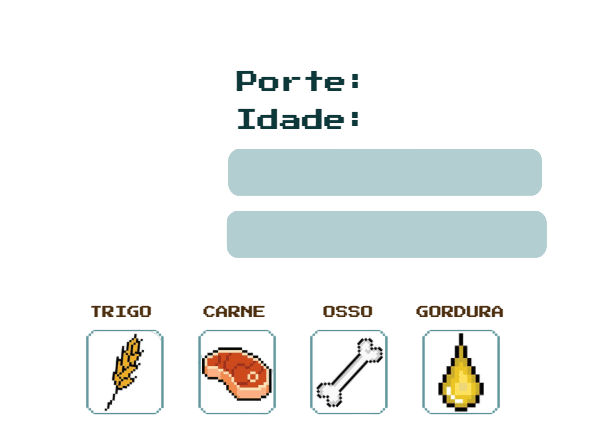
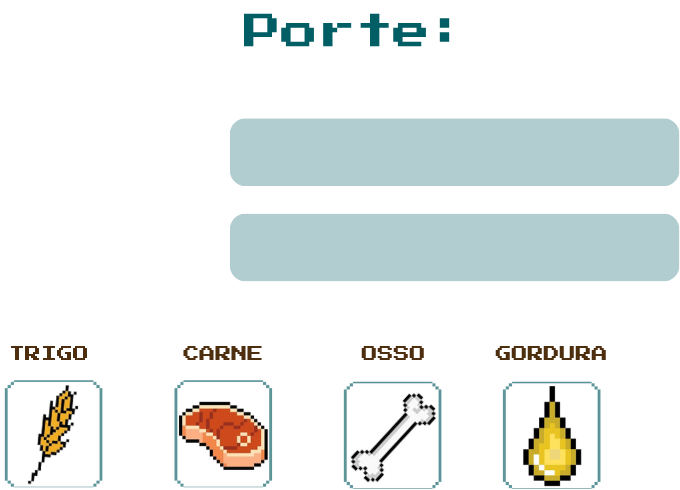
fix: cenaEstanteRacao

diff --git a/public/src/componentes/controleRacoes/dadosRacoes.js b/public/src/componentes/controleRacoes/dadosRacoes.js
@@ -24,13 +24,12 @@ export const racaoStandardPequeno = {
   id: 1,
   tipo: "Standard",
   porte: "Pequeno",
-  idade: "Até 1 ano",
   caracteristicas: ["Nutrição Essencial", "Baixo Custo"],
   nutrientes: { trigo: "42%", carne: "33%", osso: "10%", gordura: "15%" },
   descricao: "Uma opção acessível e equilibrada para a alimentação diária de cães de pequeno porte. Oferece os nutrientes essenciais para manter energia e saúde geral, com boa combinação de proteínas, carboidratos e vitaminas. Ideal para quem busca uma alimentação confiável e de baixo custo para o dia a dia.",
   exemplos: ["N&D White", "GranPlus Menu", "Fórmula Natural Life"],
   ingredientes: ["Proteínas de origem animal", "Cereais selecionados", "Vitaminas e minerais essenciais", "Fibras naturais"],
-  valor: 15,
+  valor: 20,
   sprite: "racaoStandardPequeno"
 };
 
@@ -40,13 +39,12 @@ export const racaoStandardMedio = {
   id: 2,
   tipo: "Standard",
   porte: "Médio",
-  idade: "De 1 a 2 anos",
   caracteristicas: ["Nutrição Essencial", "Baixo Custo"],
   nutrientes: { trigo: "40%", carne: "35%", osso: "10%", gordura: "15%" },
   descricao: "Uma opção acessível e equilibrada para cães de porte médio, oferecendo nutrição essencial para o dia a dia. Combinando proteínas, vitaminas e minerais, ajuda a manter a vitalidade e saúde geral. Indicada para quem procura uma alimentação funcional com ótimo custo inicial.",
   exemplos: ["GranPlus Choice", "Origens Class"],
   ingredientes: ["Proteínas de origem animal", "Cereais selecionados", "Vitaminas e minerais", "Fibras naturais"],
-  valor: 25,
+  valor: 20,
   sprite: "racaoStandardMedio"
 };
 
@@ -56,7 +54,6 @@ export const racaoStandardGrande = {
   id: 3,
   tipo: "Standard",
   porte: "Grande",
-  idade: "Acima de 2 anos",
   caracteristicas: ["Nutrição Essencial", "Baixo Custo"],
   nutrientes: { trigo: "38%", carne: "37%", osso: "10%", gordura: "15%" },
   descricao: "Indicada para cães de grande porte, esta ração oferece nutrição básica e equilibrada para manutenção da saúde. Com proteínas, vitaminas e minerais essenciais, garante energia para as atividades diárias. Uma escolha econômica e confiável para alimentação regular.",
@@ -72,13 +69,12 @@ export const racaoPremiumPequeno = {
   id: 1,
   tipo: "Premium",
   porte: "Pequeno",
-  idade: "Até 1 ano",
   caracteristicas: ["Melhor Digestão", "Equilíbrio Nutricional"],
   nutrientes: { trigo: "30%", carne: "45%", osso: "10%", gordura: "15%" },
   descricao: "Com ingredientes selecionados e melhor digestibilidade, esta ração oferece um equilíbrio entre qualidade nutricional e custo. A maior presença de proteínas auxilia na energia diária e na manutenção da saúde. Fibras e prebióticos contribuem para digestão mais eficiente, proporcionando nutrição mais completa.",
   exemplos: ["GranPlus Gourmet", "Fórmula Natural Life"],
   ingredientes: ["Proteínas selecionadas", "Arroz e cereais de fácil digestão", "Vitaminas e minerais", "Fibras e prebióticos"],
-  valor: 20,
+  valor: 25,
   sprite: "racaoPremiumPequeno"
 };
 
@@ -88,13 +84,12 @@ export const racaoPremiumMedio = {
   id: 2,
   tipo: "Premium",
   porte: "Médio",
-  idade: "De 1 a 2 anos",
   caracteristicas: ["Melhor Digestão", "Equilíbrio Nutricional"],
   nutrientes: { trigo: "28%", carne: "47%", osso: "10%", gordura: "15%" },
   descricao: "Desenvolvida para oferecer nutrição equilibrada, esta ração combina ingredientes de maior qualidade com boa digestibilidade. A maior concentração de proteínas ajuda na manutenção muscular, enquanto vitaminas e minerais reforçam a saúde geral. Uma opção balanceada entre qualidade e preço.",
   exemplos: ["Origens Class", "GranPlus Choice"],
   ingredientes: ["Proteínas nobres", "Vitaminas e minerais", "Ômega 3 e 6", "Fibras naturais"],
-  valor: 20,
+  valor: 25,
   sprite: "racaoPremiumMedio"
 };
 
@@ -104,13 +99,12 @@ export const racaoPremiumGrande = {
   id: 3,
   tipo: "Premium",
   porte: "Grande",
-  idade: "Acima de 2 anos",
   caracteristicas: ["Melhor Digestão", "Equilíbrio Nutricional"],
   nutrientes: { trigo: "26%", carne: "49%", osso: "10%", gordura: "15%" },
   descricao: "Indicada para cães de grande porte, esta ração premium oferece melhor digestibilidade e nutrição mais eficiente. Com proteínas de qualidade e nutrientes balanceados, auxilia na manutenção da massa muscular e energia diária. Uma escolha com ótimo equilíbrio entre qualidade e custo.",
   exemplos: ["GranPlus Senior", "Fórmula Natural Life"],
   ingredientes: ["Proteínas selecionadas", "Vitaminas e minerais", "Ômega 3 e 6", "Fibras naturais"],
-  valor: 20,
+  valor: 25,
   sprite: "racaoPremiumGrande"
 };
 
@@ -120,13 +114,12 @@ export const racaoSuperPremiumPequeno = {
   id: 1,
   tipo: "Super Premium",
   porte: "Pequeno",
-  idade: "Até 1 ano",
   caracteristicas: ["Alta Digestibilidade", "Custo-Benefício"],
   nutrientes: { trigo: "20%", carne: "55%", osso: "8%", gordura: "17%" },
   descricao: "Formulada com ingredientes de alta qualidade e maior digestibilidade, esta ração proporciona melhor aproveitamento dos nutrientes. A elevada concentração de proteínas contribui para energia e saúde geral. Apesar do investimento maior, o melhor rendimento nutricional oferece excelente custo-benefício a longo prazo.",
   exemplos: ["Premier Nutrição Clínica", "Golden Senior"],
   ingredientes: ["Proteínas de alta qualidade", "Vitaminas e minerais", "Ômega 3 e 6", "Prebióticos"],
-  valor: 20,
+  valor: 30,
   sprite: "racaoSuperPremiumPequeno"
 };
 
@@ -136,13 +129,12 @@ export const racaoSuperPremiumMedio = {
   id: 2,
   tipo: "Super Premium",
   porte: "Médio",
-  idade: "De 1 a 2 anos",
   caracteristicas: ["Alta Digestibilidade", "Custo-Benefício"],
   nutrientes: { trigo: "18%", carne: "57%", osso: "8%", gordura: "17%" },
   descricao: "Desenvolvida com ingredientes selecionados, esta ração oferece nutrição avançada e melhor absorção dos nutrientes. A alta concentração de proteínas favorece vitalidade e manutenção muscular. O melhor rendimento alimentar proporciona excelente custo-benefício ao longo do tempo.",
   exemplos: ["Premier Formula", "Pedigree"],
   ingredientes: ["Proteínas de alta qualidade", "Vitaminas e minerais", "Antioxidantes naturais", "Prebióticos"],
-  valor: 20,
+  valor: 30,
   sprite: "racaoSuperPremiumMedio"
 };
 
@@ -152,12 +144,11 @@ export const racaoSuperPremiumGrande = {
   id: 3,
   tipo: "Super Premium",
   porte: "Grande",
-  idade: "Acima de 2 anos",
   caracteristicas: ["Alta Digestibilidade", "Custo-Benefício"],
   nutrientes: { trigo: "22%", carne: "53%", osso: "9%", gordura: "16%" },
   descricao: "Com formulação mais avançada, esta ração oferece nutrição superior para cães de grande porte. A alta digestibilidade melhora o aproveitamento dos nutrientes, enquanto proteínas de qualidade auxiliam na manutenção da saúde geral. Mesmo com custo maior, o rendimento nutricional garante excelente custo-benefício.",
   exemplos: ["Fórmula Natural", "Premier Formula"],
   ingredientes: ["Proteínas selecionadas", "Vitaminas e minerais", "Ômega 3 e 6", "Fibras e prebióticos"],
-  valor: 20,
+  valor: 30,
   sprite: "racaoSuperPremiumGrande"
 };

diff --git a/public/src/cenas/cenaEstanteRacao.js b/public/src/cenas/cenaEstanteRacao.js
@@ -226,10 +226,7 @@ export class cenaEstanteRacao extends Phaser.Scene {
             fontSize: "14px", color: "#ff0000", fontFamily: '"Press Start 2P"', align: "center", wordWrap: { width: 350 }
         }).setOrigin(0.5);
 
-        // ==============================================================================
-        // LÓGICA DE COMPRA E TRANSIÇÃO DE ESTADOS
-        // ==============================================================================
-        
+        // Lógica de compra: Botão para confirmar a compra da ração selecionada, inicialmente invisível até que uma ração seja escolhida      
         this.botaoComprarSuperPremium = criarBotao(
             centroDireitaX, altura * 0.75,
             "botaoComprarSuperPremium", "botaoComprarSuperPremiumPressionado",
@@ -296,26 +293,25 @@ export class cenaEstanteRacao extends Phaser.Scene {
             .setScale(altura * 0.0009)
             .setVisible(false).setAlpha(0);
 
-        this.composicaoRacao = this.add.image(0, 0, "composicaoRacao");
+        this.composicaoRacao = this.add.image(35, 10, "composicaoRacao").setScale(0.75);
         this.imagemRacaoInfo = this.add.image(-160, -70, "").setScale(0.5);
 
-        // Textos descritivos (Tipo, Porte, Idade e Características Especiais)
-        this.textoTipo = this.add.text(0, -217, "", { fontSize: "32px", color: "#000", fontFamily: '"Press Start 2P"', align: "center" }).setOrigin(0.5);
-        this.textoPorte = this.add.text(75, -138, "", { fontSize: "16px", color: "#006600", fontFamily: '"Press Start 2P"' }).setOrigin(0, 0.5);
-        this.textoIdade = this.add.text(75, -102, "", { fontSize: "16px", color: "#006600", fontFamily: '"Press Start 2P"' }).setOrigin(0, 0.5);
-        this.textoChar1 = this.add.text(80, -44, "", { fontSize: "16px", color: "#000", fontFamily: '"Press Start 2P"', align: "center", wordWrap: { width: 300 } }).setOrigin(0.5);
-        this.textoChar2 = this.add.text(80, 18, "", { fontSize: "16px", color: "#000", fontFamily: '"Press Start 2P"', align: "center", wordWrap: { width: 300 } }).setOrigin(0.5);
+        // Textos descritivos (Tipo, Porte e Características Especiais)
+        this.textoTipo = this.add.text(0, -217, "", { fontSize: "32px", color: "#005e64", fontFamily: '"Press Start 2P"', align: "center" }).setOrigin(0.5);
+        this.textoPorte = this.add.text(150, -150, "", { fontSize: "22px", color: "#006600", fontFamily: '"Press Start 2P"' }).setOrigin(0, 0.5);
+        this.textoChar1 = this.add.text(120, -60, "", { fontSize: "16px", color: "#000", fontFamily: '"Press Start 2P"', align: "center", wordWrap: { width: 300 } }).setOrigin(0.5);
+        this.textoChar2 = this.add.text(120, 15, "", { fontSize: "16px", color: "#000", fontFamily: '"Press Start 2P"', align: "center", wordWrap: { width: 300 } }).setOrigin(0.5);
 
         // Porcentagens Nutricionais
-        const porcentagem = { fontSize: "12px", color: "#8B4513", fontFamily: '"Press Start 2P"' };
-        this.textoTrigo = this.add.text(-170, 204, "", porcentagem).setOrigin(0.5);
-        this.textoCarne = this.add.text(-60, 204, "", porcentagem).setOrigin(0.5);
-        this.textoOsso = this.add.text(51, 204, "", porcentagem).setOrigin(0.5);
-        this.textoGordura = this.add.text(165, 204, "", porcentagem).setOrigin(0.5);
+        const porcentagem = { fontSize: "16px", color: "#8B4513", fontFamily: '"Press Start 2P"' };
+        this.textoTrigo = this.add.text(-180, 208, "", porcentagem).setOrigin(0.5);
+        this.textoCarne = this.add.text(-53, 208, "", porcentagem).setOrigin(0.5);
+        this.textoOsso = this.add.text(78, 208, "", porcentagem).setOrigin(0.5);
+        this.textoGordura = this.add.text(197, 208, "", porcentagem).setOrigin(0.5);
 
         // Acoplando todos os elementos ao contêiner de informações
         this.containerInfo.add([
-            this.composicaoRacao, this.imagemRacaoInfo, this.textoTipo, this.textoPorte, this.textoIdade, 
+            this.composicaoRacao, this.imagemRacaoInfo, this.textoTipo, this.textoPorte, 
             this.textoChar1, this.textoChar2, this.textoTrigo, this.textoCarne, this.textoOsso, this.textoGordura
         ]);
 
@@ -364,7 +360,6 @@ export class cenaEstanteRacao extends Phaser.Scene {
                 // Atualiza em tempo real as referências de texto com as informações do pacote clicado
                 this.textoTipo.setText(racao.tipo || "Super Premium");
                 this.textoPorte.setText(racao.porte || "-");
-                this.textoIdade.setText(racao.idade || "-");
                 this.textoChar1.setText(racao.caracteristicas ? racao.caracteristicas[0] : "");
                 this.textoChar2.setText(racao.caracteristicas ? racao.caracteristicas[1] : "");
                 this.textoTrigo.setText(racao.nutrientes ? racao.nutrientes.trigo : "");

diff --git a/public/src/cenas/jogoLazer.js b/public/src/cenas/jogoLazer.js
@@ -48,7 +48,6 @@ export class jogoLazer extends Phaser.Scene {
             iniciarMusicaAleatoria(this);
         }
 
-        // === UI: BOTÃO VOLTAR ===
         // Criado com interatividade e feedback visual (Hover) para boa UX
         this.botaoVoltar = this.add.text(60, 50, "Voltar", {
             fontFamily: "Arial", fontSize: "24px", color: "#ffffff",
@@ -61,7 +60,6 @@ export class jogoLazer extends Phaser.Scene {
             this.scene.start("cenaLazer"); // Aborta o jogo e volta pro menu de lazer
         });
 
-        // === CONFIGURAÇÃO DO MUNDO FÍSICO ===
         this.physics.world.gravity.y = 800; // Gravidade padrão para o pulo ter um "peso" agradável
 
         // Calcula dinamicamente o tamanho da tela para o cenário responsivo
@@ -79,7 +77,6 @@ export class jogoLazer extends Phaser.Scene {
         this.physics.world.setBounds(0, 0, 8000, alturaDoChao);
         this.cameras.main.setBounds(0, 0, 8000, altura);
 
-        // === JOGADOR (Cachorro) ===
         // Puxa o sprite correto dependendo da evolução do pet no estado global
         const spriteCorrendo = gameState.pets.cachorroJoao ? 'cachorroJoaoCorrendo' : (gameState.pets.cachorroHeroi ? 'cachorroHeroiCorrendo' : 'cachorroCorrendo'); 
 
@@ -88,7 +85,7 @@ export class jogoLazer extends Phaser.Scene {
         this.cachorro.setDepth(10); 
         
         // Define a proporção visual do pet selecionado
-        this.escalaBase = gameState.pets.cachorroJoao ? 0.7 : (gameState.pets.cachorroHeroi ? 0.18 : 0.5);
+        this.escalaBase = gameState.pets.cachorroJoao ? 0.6 : (gameState.pets.cachorroHeroi ? 0.18 : 0.5);
         this.cachorro.setScale(this.escalaBase); 
         
         // Ajuste fino da Hitbox (Caixa de Colisão):
@@ -112,11 +109,10 @@ export class jogoLazer extends Phaser.Scene {
         // A câmera segue o jogador com um offset, deixando mais espaço na frente para ver obstáculos
         this.cameras.main.startFollow(this.cachorro, true, 1, 1, -largura * 0.2, 0);
         
-        // === CONTROLES ===
+        // Controles de teclado para pular e abaixar (setas ou espaço para pular)
         this.teclado = this.input.keyboard.createCursorKeys();
         this.teclaSpace = this.input.keyboard.addKey(Phaser.Input.Keyboard.KeyCodes.SPACE);
 
-        // === OBJETOS DO CENÁRIO ===
         // Grupos sem gravidade e imóveis (não são empurrados pelo jogador)
         this.petiscos = this.physics.add.group({ allowGravity: false, immovable: true });
         this.obstaculos = this.physics.add.group({ allowGravity: false, immovable: true });
@@ -129,7 +125,7 @@ export class jogoLazer extends Phaser.Scene {
         this.physics.add.collider(this.cachorro, this.obstaculos, this.baterNoObstaculo, null, this);
         this.physics.add.collider(this.cachorro, this.camasElasticas, this.usarCamaElastica, null, this);
 
-        // === HUD INTERNA ===
+        // HUD de Pontuação e Tempo (fixo na tela, não segue a câmera)
         this.textoPontos = this.add.text(largura - 30, 30, 'Petiscos: 0', { 
             fontFamily: '"Press Start 2P", monospace', fontSize: '24px', fill: '#fff', stroke: '#000', strokeThickness: 4
         }).setOrigin(1, 0).setScrollFactor(0).setDepth(20);
@@ -224,7 +220,7 @@ export class jogoLazer extends Phaser.Scene {
             return; 
         }
 
-        // === PROCESSAMENTO DE INPUTS ===
+        //Principais controles de pulo e abaixar, com feedback visual e animação pausada durante o voo
         const querPular = this.teclado.up.isDown || Phaser.Input.Keyboard.JustDown(this.teclaSpace);
         
         if (querPular) {
@@ -490,7 +486,7 @@ export class jogoLazer extends Phaser.Scene {
           gameState.barras.limpeza <= 0 &&
           gameState.barras.saude <= 0;
 
-        // === CONSTRUÇÃO DO POPUP FINAL ===
+        //  Construção dinâmica da tela de feedback final baseada na performance (1, 2 ou 3 estrelas)
         let imagemFeedback = estrelas === 3 ? "feeedback3estrelas" : (estrelas === 2 ? "feedback2estrelas" : "feedback1estrela");
 
         const cx = this.scale.width / 2;
